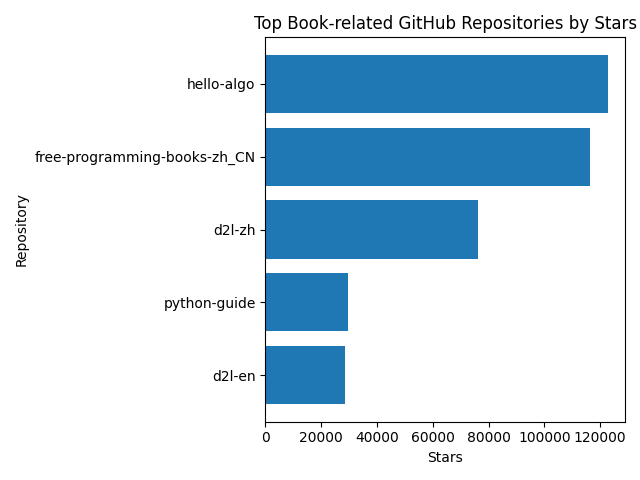
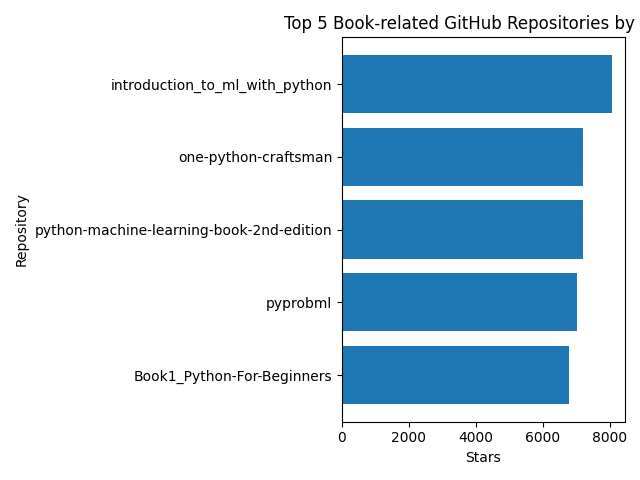
update analysis

diff --git a/Lab03 - Data Acquisition/notebooks/full_pipeline_deliverables/analysis.py b/Lab03 - Data Acquisition/notebooks/full_pipeline_deliverables/analysis.py
@@ -102,12 +102,11 @@ stars = []
 languages = []
 
 for row in api_df["content"]:
-    data = json.loads(row)
+    repo = json.loads(row)
 
-    for repo in data:
-        repos.append(repo["name"])
-        stars.append(repo["stars"])
-        languages.append(repo["language"])
+    repos.append(repo["name"])
+    stars.append(repo["stars"])
+    languages.append(repo["language"])
             
 
 # -----------------------------
@@ -119,13 +118,13 @@ repo_df = pd.DataFrame({
     "stars": stars
 })
 
-repo_df = repo_df.sort_values("stars")
+repo_df = repo_df.sort_values("stars")[:5]
 
 plt.figure()
 
 plt.barh(repo_df["repo"], repo_df["stars"])
 
-plt.title("Top Book-related GitHub Repositories by Stars")
+plt.title("Top 5 Book-related GitHub Repositories by Stars")
 plt.xlabel("Stars")
 plt.ylabel("Repository")
 
